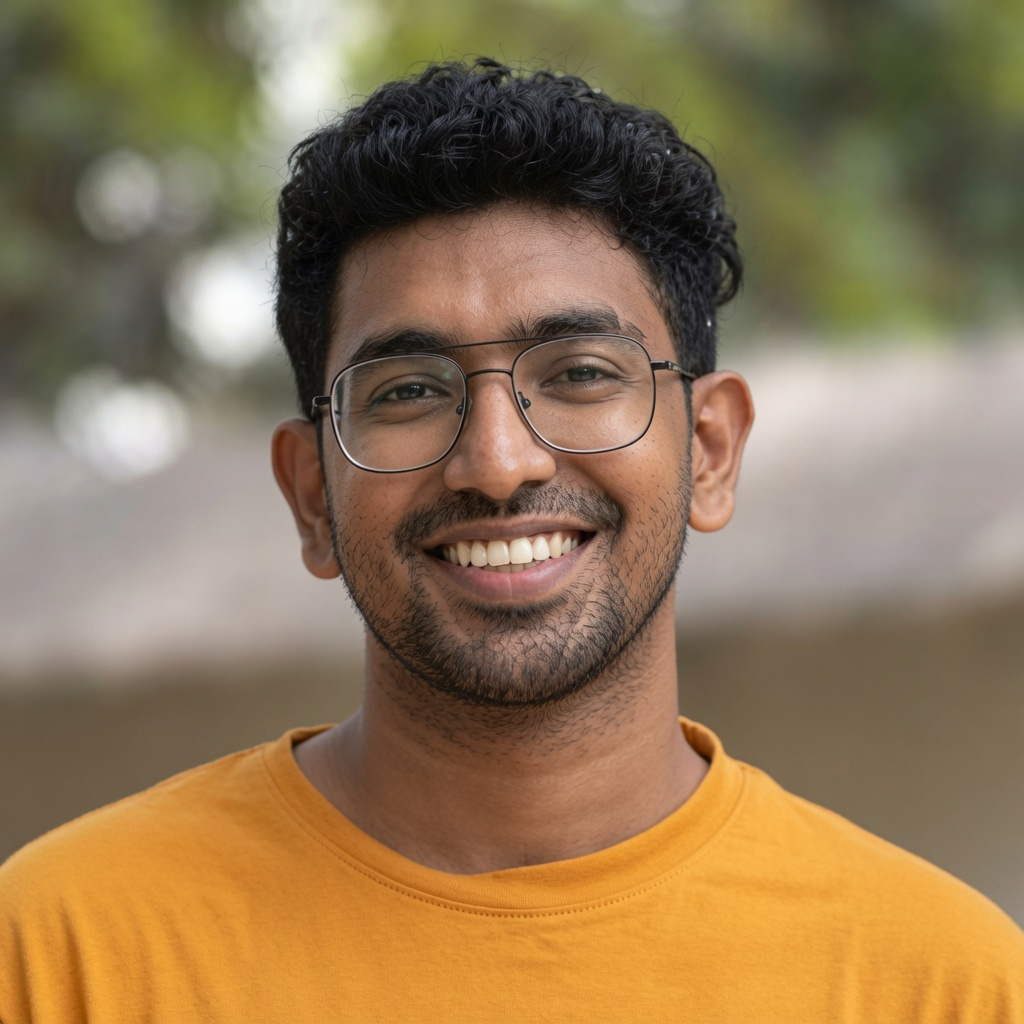
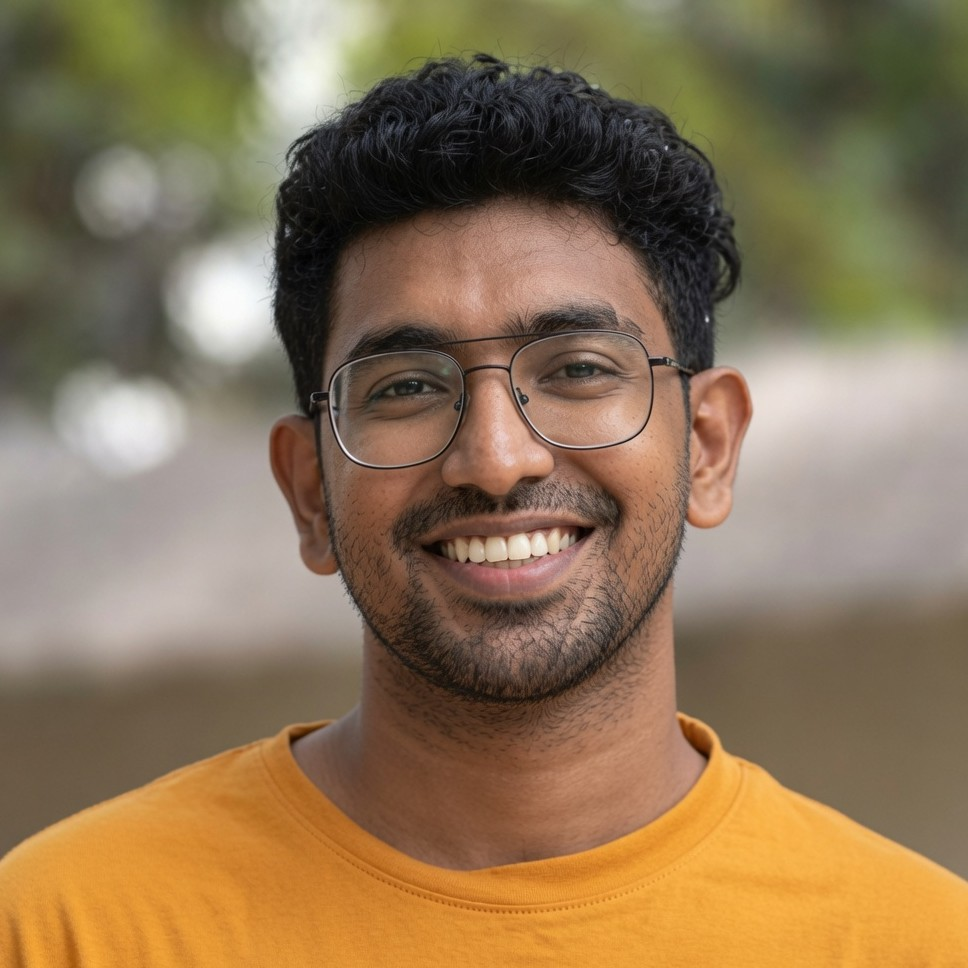
feat(seed): update testimonial assets and data

diff --git a/src/sanity/seed/data/testimonials.ts b/src/sanity/seed/data/testimonials.ts
@@ -33,10 +33,10 @@ export const TESTIMONIALS: SeedTestimonial[] = [
   },
   {
     author: {
-      name: 'Sofia Patel',
+      name: 'Richard Hepburn',
       role: 'Founder',
-      company: 'Indie Startup',
-      avatarFilename: 'sofia-patel.jpg',
+      company: 'Rainflow',
+      avatarFilename: 'richard-hepburn.jpg',
     },
     quote: 'Helped us go from idea to MVP quickly with excellent attention to detail.',
     isFeatured: false,
@@ -53,24 +53,24 @@ export const TESTIMONIALS: SeedTestimonial[] = [
   },
   {
     author: {
-      name: 'Richard Robinson',
-      role: 'Senior Frontend Engineer',
-      company: 'Vercel',
-      avatarFilename: 'richard-robinson.jpg',
+      name: 'James Prendergast',
+      role: 'Lead Developer',
+      company: 'Ravenware',
+      avatarFilename: 'james-prendergast.jpg',
     },
     quote:
-      'Xander delivered a clean, scalable implementation and communicated clearly throughout the project.',
+      "The day Xander joined my team, I went home and told my wife that he's going to completely change the way I code.",
     isFeatured: true,
   },
   {
     author: {
-      name: 'Vanessa Vieira',
-      role: 'Software Engineer',
-      company: 'Shopify',
-      avatarFilename: 'vanessa-vieira.jpg',
+      name: 'Moysser Aziz',
+      role: 'Junior Frontend Developer',
+      company: 'Mindbridge',
+      avatarFilename: 'moysser-aziz.jpg',
     },
     quote:
-      'Xander quickly adapted to our codebase and delivered robust, maintainable features with minimal guidance.',
+      'Xander taught me much of what I know about web development. I wouldn’t be where I am today without his guidance.',
     isFeatured: false,
   },
 ] satisfies SeedTestimonial[]
